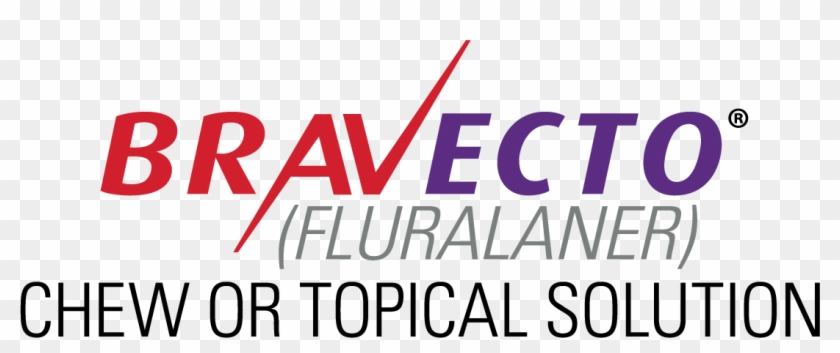
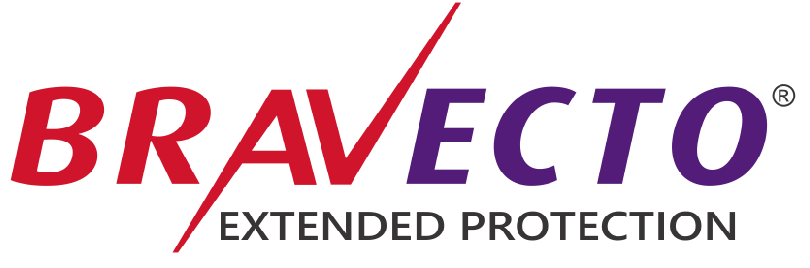
Ad carousel in DogDetail

Changed region(s): [[0.0, 0.0597, 0.9877, 0.9552], [0.5556, 0.0, 0.5864, 0.0597]]

diff --git a/shared/sponsors.js b/shared/sponsors.js
@@ -1,86 +1,35 @@
-import image0 from '../assets/images/sponsors/dirtydaves.png';
-import image1 from '../assets/images/sponsors/haggen.png';
-import image2 from '../assets/images/sponsors/olympiaseafood.png';
-import image3 from '../assets/images/sponsors/wagners.png';
-import image4 from '../assets/images/sponsors/zoejuicebar.png';
-import image5 from '../assets/images/sponsors/greatwolflodge.png';
-import image6 from '../assets/images/sponsors/capitalmall.png';
-import image7 from '../assets/images/sponsors/westsidelanes.png';
+import image0 from '../assets/images/sponsors/chewy.png';
+import image1 from '../assets/images/sponsors/petsmart.png';
+import image2 from '../assets/images/sponsors/bravecto.png';
+
 
 export const SPONSORS = [
     {
         id: 0,
-        name: "Dirty Dave's Pizza",
+        name: "Chewy.com",
         displayName: false,
         image: image0,
         featured: false,
-        description: "Pizza Parlor in Lacey, WA",
-        url: 'https://www.dirtydavespizza.com/'
+        description: "Pet products online",
+        url: 'https://www.chewy.com/'
     },
     {
         id: 1,
-        name: 'Haggen Food',
+        name: 'Petsmart',
         displayName: false,
         image: image1,
         featured: false,
-        description: "Haggen Nortwest Fresh Grocery",
-        url: 'https://www.haggen.com/'
+        description: "Pet Superstores",
+        url: 'https://www.petsmart.com/'
     },
     {
         id: 2,
-        name: 'Olympia Seafood Co.',
+        name: 'Bravecto',
         displayName: false,
         image: image2,
         featured: true,
-        description: "Fresh local and exotic seafood in Olympia",
-        url: 'https://olympiaseafood.com/'
-    },
-    {
-        id: 3,
-        name: "Wagner's Bakery",
-        displayName: false,
-        image: image3,
-        featured: false,
-        description: "European Bakery in downtown Olympia",
-        url: 'https://wagnersoly.com/'
-    },
-    {
-        id: 4,
-        name: "Zoe Juice Bar",
-        displayName: false,
-        image: image4,
-        featured: false,
-        description: "Fresh juice bar in Olympia, WA",
-        url: 'https://www.zoejuicebar.com/'
-    },
-    {
-        id: 5,
-        name: "Great Wolf Lodge",
-        displayName: true,
-        image: image5,
-        featured: false,
-        description: "Water Park and Resort near Olympia, WA",
-        url: 'https://www.greatwolf.com/grand-mound'
-    },
-    {
-        id: 6,
-        name: "Capital Mall",
-        displayName: false,
-        image: image6,
-        featured: false,
-        description: "Premier shopping destination in Olympia",
-        url: 'https://capitalmallolympia.com/'
-    },
-    {
-        id: 7,
-        name: "Westside Lanes",
-        displayName: true,
-        image: image7,
-        featured: false,
-        description: "Bowling in Olympia, WA",
-        url: 'https://www.wslanesoly.com/'
+        description: "Flea and tick prevention",
+        url: 'https://us.bravecto.com/'
     }
-
-
 ]
       

diff --git a/shared/sponsors-old.js b/shared/sponsors-old.js
@@ -1,0 +1,86 @@
+import image0 from '../assets/images/sponsors/dirtydaves.png';
+import image1 from '../assets/images/sponsors/haggen.png';
+import image2 from '../assets/images/sponsors/olympiaseafood.png';
+import image3 from '../assets/images/sponsors/wagners.png';
+import image4 from '../assets/images/sponsors/zoejuicebar.png';
+import image5 from '../assets/images/sponsors/greatwolflodge.png';
+import image6 from '../assets/images/sponsors/capitalmall.png';
+import image7 from '../assets/images/sponsors/westsidelanes.png';
+
+export const SPONSORS = [
+    {
+        id: 0,
+        name: "Dirty Dave's Pizza",
+        displayName: false,
+        image: image0,
+        featured: false,
+        description: "Pizza Parlor in Lacey, WA",
+        url: 'https://www.dirtydavespizza.com/'
+    },
+    {
+        id: 1,
+        name: 'Haggen Food',
+        displayName: false,
+        image: image1,
+        featured: false,
+        description: "Haggen Nortwest Fresh Grocery",
+        url: 'https://www.haggen.com/'
+    },
+    {
+        id: 2,
+        name: 'Olympia Seafood Co.',
+        displayName: false,
+        image: image2,
+        featured: true,
+        description: "Fresh local and exotic seafood in Olympia",
+        url: 'https://olympiaseafood.com/'
+    },
+    {
+        id: 3,
+        name: "Wagner's Bakery",
+        displayName: false,
+        image: image3,
+        featured: false,
+        description: "European Bakery in downtown Olympia",
+        url: 'https://wagnersoly.com/'
+    },
+    {
+        id: 4,
+        name: "Zoe Juice Bar",
+        displayName: false,
+        image: image4,
+        featured: false,
+        description: "Fresh juice bar in Olympia, WA",
+        url: 'https://www.zoejuicebar.com/'
+    },
+    {
+        id: 5,
+        name: "Great Wolf Lodge",
+        displayName: true,
+        image: image5,
+        featured: false,
+        description: "Water Park and Resort near Olympia, WA",
+        url: 'https://www.greatwolf.com/grand-mound'
+    },
+    {
+        id: 6,
+        name: "Capital Mall",
+        displayName: false,
+        image: image6,
+        featured: false,
+        description: "Premier shopping destination in Olympia",
+        url: 'https://capitalmallolympia.com/'
+    },
+    {
+        id: 7,
+        name: "Westside Lanes",
+        displayName: true,
+        image: image7,
+        featured: false,
+        description: "Bowling in Olympia, WA",
+        url: 'https://www.wslanesoly.com/'
+    }
+
+
+]
+      

diff --git a/components/CardCarouselComponent.js b/components/CardCarouselComponent.js
@@ -1,12 +1,12 @@
 import React from 'react';
-import { StyleSheet, Text, View, Linking, TouchableOpacity } from 'react-native';
+import { StyleSheet, Text, View, Linking, TouchableOpacity, ImageBackground } from 'react-native';
 import { Card } from 'react-native-elements';
 import Slick from 'react-native-slick';
 import { LinearGradient } from 'expo-linear-gradient';
  
 const styles = StyleSheet.create({
   wrapper: {
-    height: 275
+    height: 120,
 },
   slide: {
     flex: 1,
@@ -17,7 +17,14 @@ const styles = StyleSheet.create({
     textAlign: 'center', 
     fontSize: 15,
     fontWeight: 'bold',
-  }
+  },
+  imageBox: {
+    alignSelf: 'center',
+    height: 82,
+    width: 300,
+    margin: 5
+
+}
 });
 
 
@@ -47,17 +54,20 @@ function RenderCards({resources}) {
         return (
             <View key={resource.id} style={styles.slide}>
                 <LinearGradient
-                    colors={['#60106B', '#3046C5', '#5637DD']}
+                    colors={['#60106B', '#3046C5', '#d5fafa']}
                     style={styles.linearGradient}
                 >
-                <ConstructCard resource={resource} />
+                <TouchableOpacity key={resource.id} onPress={ ()=>{ Linking.openURL(`${resource.url}`)}}>
+                    <ImageBackground source={resource.image} style={styles.imageBox} />
+                </TouchableOpacity>
+
                 </LinearGradient>
             </View>
         );
     });
 
     return (
-      <Slick style={styles.wrapper} showsButtons={false} autoplay={true}>
+      <Slick style={styles.wrapper} showsButtons={false} autoplay={true} showsPagination={false}>
           {cardslide}
       </Slick>
     );

diff --git a/components/DogDetailComponent.js b/components/DogDetailComponent.js
@@ -4,14 +4,15 @@ import { Card, Rating, Icon } from 'react-native-elements';
 import { SPONSORS } from '../shared/sponsors';
 import { connect } from 'react-redux';
 import { postFavorite,  deleteFavorite } from '../redux/ActionCreators';
-//import CardCarousel from './CardCarouselComponent';
+import CardCarousel from './CardCarouselComponent';
 
 const PAW_IMAGE = require('../assets/images/pawr.png');
 
 const mapStateToProps = state => {
     return {
         breeds: state.breeds,
-        favorites: state.favorites
+        favorites: state.favorites,
+        resources: state.sponsors
     };
   };
 
@@ -118,6 +119,9 @@ class DogDetail extends Component {
                     markFavorite={() => this.markFavorite(dog.id)}
                     removeFavorite={() => this.removeFavorite(dog.id)}
                 />
+                 <View style={styles.adContainer}>
+                    <CardCarousel resources={this.state.sponsors} />
+                </View>
         </ScrollView>
         );
     }
@@ -145,6 +149,10 @@ const styles = StyleSheet.create({
         fontSize: 18,
         fontWeight: 'bold',
         textAlign: 'center'
+    },
+    adContainer: {
+        flex: 1,
+        justifyContent: 'flex-end'
     }
   });
 

diff --git a/components/MainComponent.js b/components/MainComponent.js
@@ -36,7 +36,9 @@ function HomeStackScreen() {
    <HomeStack.Navigator
       initialRouteName="Home"
    >
-      <HomeStack.Screen name="Home" component={Home} /> 
+      <HomeStack.Screen name="Home" component={Home} 
+        options={{ headerShown: false }}
+      /> 
       <HomeStack.Screen
         name="DogDetail" 
         component={DogDetail}
@@ -58,7 +60,9 @@ const ProfileStack = createStackNavigator();
 function ProfileStackScreen() {
   return (
     <ProfileStack.Navigator>
-      <ProfileStack.Screen name="Profile" component={ProfileEditor} />
+      <ProfileStack.Screen name="Profile" component={ProfileEditor}
+        options={{ headerShown: false }}
+      />
     </ProfileStack.Navigator>
   );
 }
